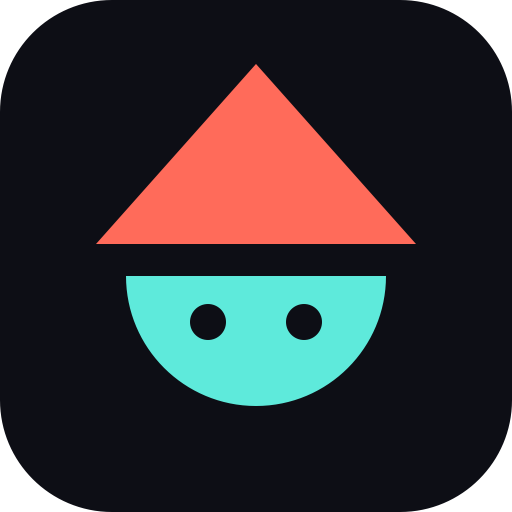
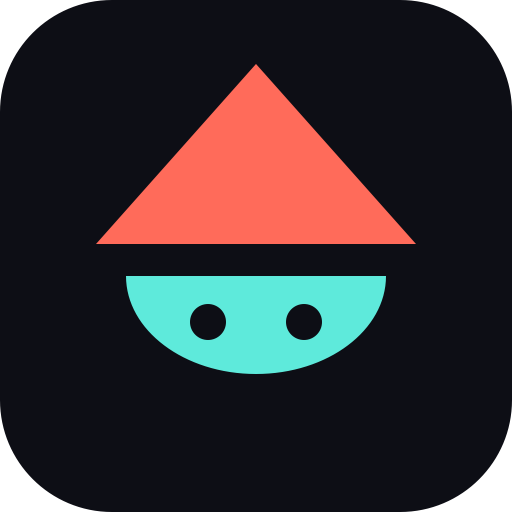
Логотип: лицо подрезано снизу (эллиптическая дуга), терминальный логотип 16 строк

Changed region(s): [[0.25, 0.5938, 0.75, 0.8125]]

diff --git a/cmd/kuzya/logo.go b/cmd/kuzya/logo.go
@@ -38,14 +38,11 @@ const logo = `...............ccccc..............
 .......tttttttttttttttttttt.......
 .......tttttttttttttttttttt.......
 .......tccttttkttttkttttcct.......
-.......tcctttttkkkktttttcct.......
-........tttttttttttttttttt........
+........cctttttkkkktttttcc........
 ........tttttttttttttttttt........
 .........tttttttttttttttt.........
-.........tttttttttttttttt.........
-..........tttttttttttttt..........
-............tttttttttt............
-..............tttttt..............
+...........tttttttttttt...........
+.............tttttttt.............
 `
 
 type rgb struct{ r, g, b int }
@@ -134,7 +131,7 @@ func shrink(rows []string, k int) []string {
 // pickLogo выбирает размер логотипа под avail строк терминала (0 — неизвестно): целиком, если есть место,
 // иначе уменьшенный в 2–4 раза; nil, если места нет. Под логотипом остаются две строки текста, приглашение и запас.
 func pickLogo(avail int) []string {
-	const reserve = 5
+	const reserve = 4
 	full := strings.Split(strings.TrimRight(logo, "\n"), "\n")
 	for _, k := range []int{1, 2, 3, 4} {
 		g := shrink(full, k)

diff --git a/cmd/kuzya/logo_test.go b/cmd/kuzya/logo_test.go
@@ -4,14 +4,14 @@ import "testing"
 
 func TestPickLogoFitsTerminal(t *testing.T) {
 	cases := []struct{ avail, wantRows int }{
-		{0, 18},  // размер неизвестен: целиком
-		{40, 18}, // большой терминал
-		{23, 18},
-		{20, 9}, // альбомный экран телефона: уменьшаем в 2 раза
-		{14, 9},
-		{11, 6},
-		{10, 5},
-		{9, 0}, // места нет
+		{0, 16},  // размер неизвестен: целиком
+		{40, 16}, // большой терминал
+		{20, 16}, // альбомный экран телефона: ровно влезает целиком
+		{19, 8},  // на строку меньше: уменьшаем в 2 раза
+		{12, 8},
+		{10, 6},
+		{9, 4},
+		{7, 0}, // места нет
 	}
 	for _, c := range cases {
 		g := pickLogo(c.avail)
@@ -22,7 +22,7 @@ func TestPickLogoFitsTerminal(t *testing.T) {
 		if got != c.wantRows {
 			t.Errorf("avail=%d: %d строк, ожидали %d", c.avail, got, c.wantRows)
 		}
-		if g != nil && c.avail > 0 && got+5 > c.avail {
+		if g != nil && c.avail > 0 && got+4 > c.avail {
 			t.Errorf("avail=%d: логотип не влезает (%d строк)", c.avail, got)
 		}
 	}

diff --git a/SUMMARY.md b/SUMMARY.md
@@ -69,7 +69,7 @@ Goal / Цель: offline agent on Poco F1 (SD845, 5.4 GB RAM) under skladenOS. /
 
 - `wifi_connect` and `service_restart NetworkManager` checked over USB networking (2026-10-26, direct calls through `cmd/kuzya-tool`, run detached on the phone): `service_restart NetworkManager` works, about 5 s, `wlan0` and `usb0` reconnected, the SSH session over USB hung while the interface restarted (the Mac got only a link-local address for a minute). **`wifi_connect` fails from an SSH session**: `nmcli connection up` returns "Not authorized to control networking" (polkit `org.freedesktop.NetworkManager.network-control` is `auth` for a non-local session; the default NetworkManager rule grants only `settings.modify.system` to local active sessions of groups `sudo`/`netdev`). Wi-Fi stayed connected. Whether it works from the local SXMO session (session 1, Active=yes) is not verified; a process started by a systemd user service or over SSH is not in an active session. Options: run the agent from the SXMO session and verify there, or add a polkit rule for `network-control` for group `netdev` (owner's decision: it allows all NetworkManager control for that group, not only `connection up`). / `wifi_connect` из SSH не работает (polkit); `service_restart NetworkManager` работает.
 
-- Interactive mode and SXMO entry / Интерактивный режим и пункт меню SXMO (2026-10-26): `kuzya` without arguments opens a dialog with a pixel logo (`cmd/kuzya/logo.go`, `assets/kuzya-terminal.png`) and the hints "/reset" and "/exit" (English commands first; "/сброс", "/выход" and "/quit" still work; Ctrl-D exits). `deploy/kuzya-server start|stop|status` starts `llama-server` on demand, restores the prompt cache slot (first start warms it up and saves 32 MB, about 132 s; later start 3 s) and stops it after exit; `deploy/sxmo/kuzya` is the menu entry (Scripts → "Кузя") that opens a terminal, so `nmcli` runs inside the local session. `wifi_connect` was verified from the local SXMO session through `swaymsg exec` (activated in 9 s, exit 0). The menu entry itself was not clicked yet. / Пункт меню на экране ещё не нажимали. The logo adapts to the terminal height (`pickLogo`: full 19 rows, or shrunk 2–4 times, or none) after a screenshot of the phone in landscape (about 20 rows) showed the top of the full logo scrolled off; `/help` was added and unknown `/commands` are no longer sent to the model. All logo variants now have a round face instead of the wedge beard (SVG light and dark, PNG, terminal logo; 18 text rows instead of 19). The terminal logo has no glasses (eyes with highlights); the SVG logo in `assets/` keeps them. Confirmation accepts `y`, `yes`, `д`, `да` (any case) as yes and anything else as no; the prompt reads `[y/N, д/н]` (checked on the phone: `н` cancelled, `Д` applied). / Подтверждение принимает y/д/да, всё остальное — отказ. Terminal command: `deploy/kuzya` is installed as `~/.local/bin/kuzya` (it starts the server, runs the agent, stops the server); `kuzya "какая сейчас громкость?"` took 10 s in total. / Команда `kuzya` в терминале: `~/.local/bin/kuzya`.
+- Interactive mode and SXMO entry / Интерактивный режим и пункт меню SXMO (2026-10-26): `kuzya` without arguments opens a dialog with a pixel logo (`cmd/kuzya/logo.go`, `assets/kuzya-terminal.png`) and the hints "/reset" and "/exit" (English commands first; "/сброс", "/выход" and "/quit" still work; Ctrl-D exits). `deploy/kuzya-server start|stop|status` starts `llama-server` on demand, restores the prompt cache slot (first start warms it up and saves 32 MB, about 132 s; later start 3 s) and stops it after exit; `deploy/sxmo/kuzya` is the menu entry (Scripts → "Кузя") that opens a terminal, so `nmcli` runs inside the local session. `wifi_connect` was verified from the local SXMO session through `swaymsg exec` (activated in 9 s, exit 0). The menu entry itself was not clicked yet. / Пункт меню на экране ещё не нажимали. The logo adapts to the terminal height (`pickLogo`: full 19 rows, or shrunk 2–4 times, or none) after a screenshot of the phone in landscape (about 20 rows) showed the top of the full logo scrolled off; `/help` was added and unknown `/commands` are no longer sent to the model. All logo variants now have a round face instead of the wedge beard (SVG light and dark, PNG, terminal logo), then trimmed at the bottom (elliptical arc instead of a half circle; the terminal logo is 16 text rows instead of 19). The terminal logo has no glasses (eyes with highlights); the SVG logo in `assets/` keeps them. Confirmation accepts `y`, `yes`, `д`, `да` (any case) as yes and anything else as no; the prompt reads `[y/N, д/н]` (checked on the phone: `н` cancelled, `Д` applied). / Подтверждение принимает y/д/да, всё остальное — отказ. Terminal command: `deploy/kuzya` is installed as `~/.local/bin/kuzya` (it starts the server, runs the agent, stops the server); `kuzya "какая сейчас громкость?"` took 10 s in total. / Команда `kuzya` в терминале: `~/.local/bin/kuzya`.
 
 - Battery use / Расход батареи (2026-10-26, `qcom-battery/current_now`, Gemma 4 E2B, screen 50%, Wi-Fi on, 3.75 V): nothing running about 190 mA; `llama-server` idle (20–45 s after start) about 205–220 mA, i.e. +20–30 mA, no CPU use; server start and prompt-cache restore a few seconds at about 600 mA; **a query to the model about 2.2 A** (about 8 W) for 5–10 s, roughly 3–4 mAh (about 0.1% of a 4000 mAh battery) per query, a cold first request (130 s) about 80 mAh (2%). The 97% → 8% drop during the day came from my benchmark runs (minutes at full load), not from normal use. The launcher stops the server only if it started it, also on Ctrl-C (`deploy/kuzya`); `kuzya-server status` exits non-zero when stopped. / Простой сервера почти не тратит; запрос около 0,1%; разряд за день — из-за моих прогонов.
 

diff --git a/assets/README.md b/assets/README.md
@@ -11,6 +11,6 @@ Two colours on a dark tile: turquoise `#5EEADB` (light theme `#14968F`) and the 
 | `kuzya-minimal.svg`, `kuzya-minimal-light.svg`, `kuzya-minimal.png` | rejected, too primitive | Claude-style minimalism: two triangles and two dots, no face details |
 
 Русский: основной — `mid-glasses` (с очками), альтернативный — `mid` (без очков); `simple` и `minimal` отклонены, подробный `kuzya` оставлен как ранняя версия.
-| `kuzya-terminal.png` | preview of the terminal logo | 34×38 pixel version of `mid-glasses` without the glasses (eyes with highlights) for the interactive mode (`cmd/kuzya/logo.go`, half-block characters, 24-bit colour or 256 colours); not shown when output is not a terminal, with `NO_COLOR` or `KUZYA_NOLOGO` |
+| `kuzya-terminal.png` | preview of the terminal logo | 34×32 pixel version of `mid-glasses` without the glasses (eyes with highlights) for the interactive mode (`cmd/kuzya/logo.go`, half-block characters, 24-bit colour or 256 colours); not shown when output is not a terminal, with `NO_COLOR` or `KUZYA_NOLOGO` |
 
-All variants (dark and light) use a round face: the pentagon beard was replaced by the lower half of a circle under the hat brim (the fold lines of the beard in `kuzya*.svg` were removed); PNGs were regenerated.
+All variants (dark and light) use a round face: the pentagon beard was replaced by the lower half of a circle under the hat brim, flattened into an ellipse so that the face is shorter at the bottom (the fold lines of the beard in `kuzya*.svg` were removed); PNGs were regenerated.
